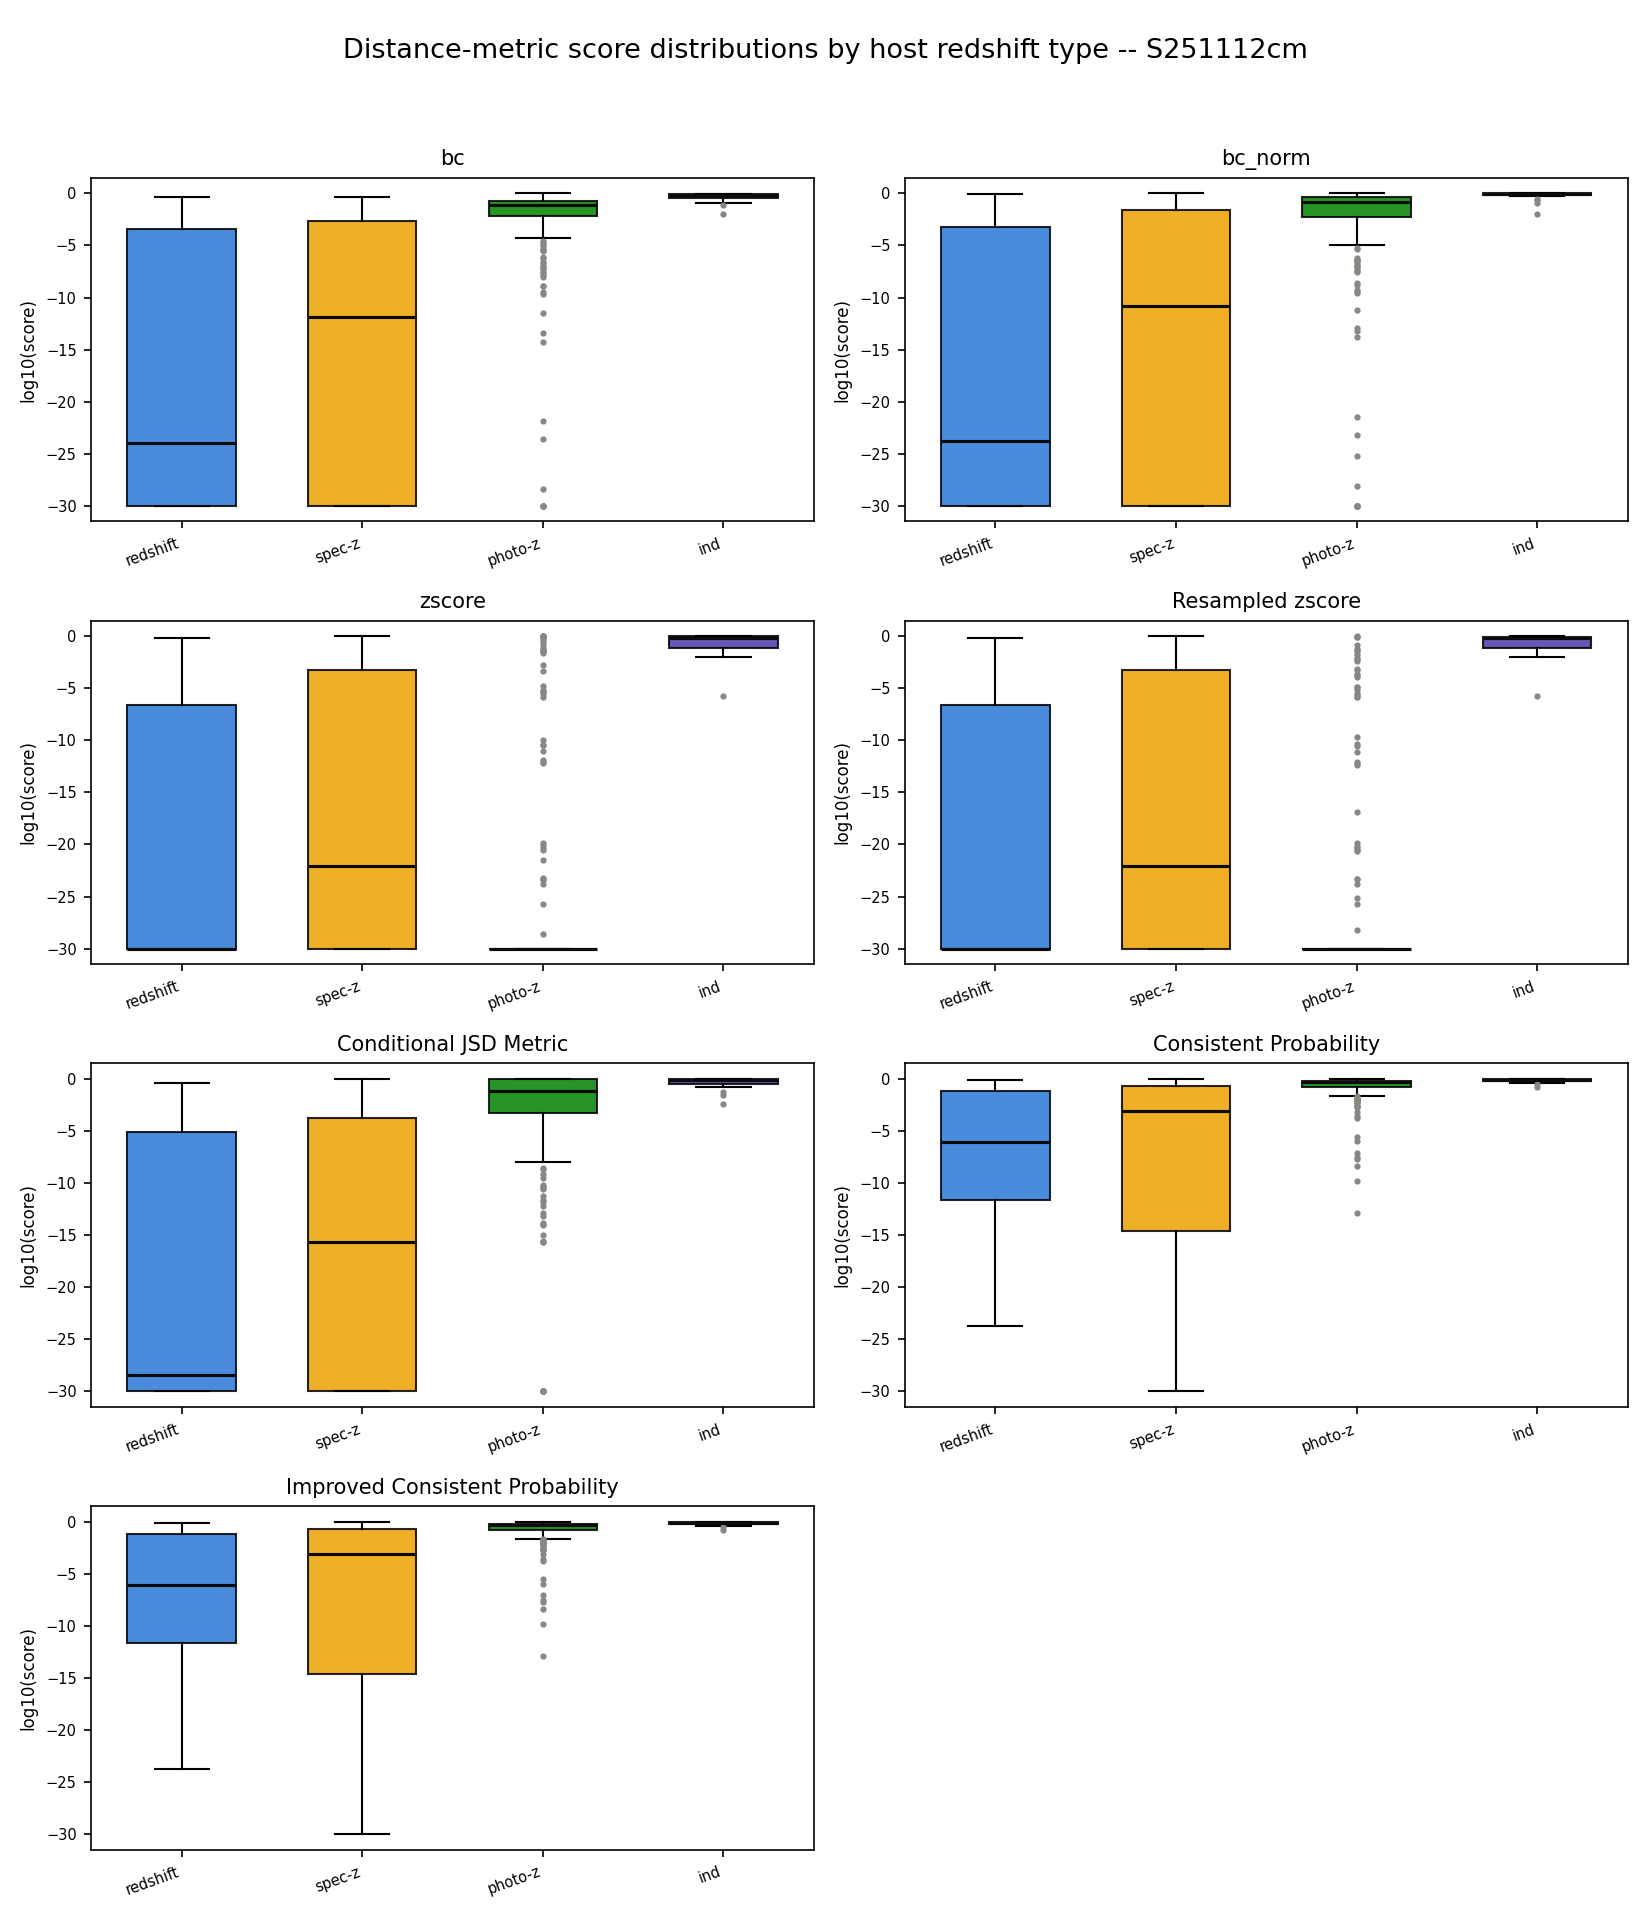
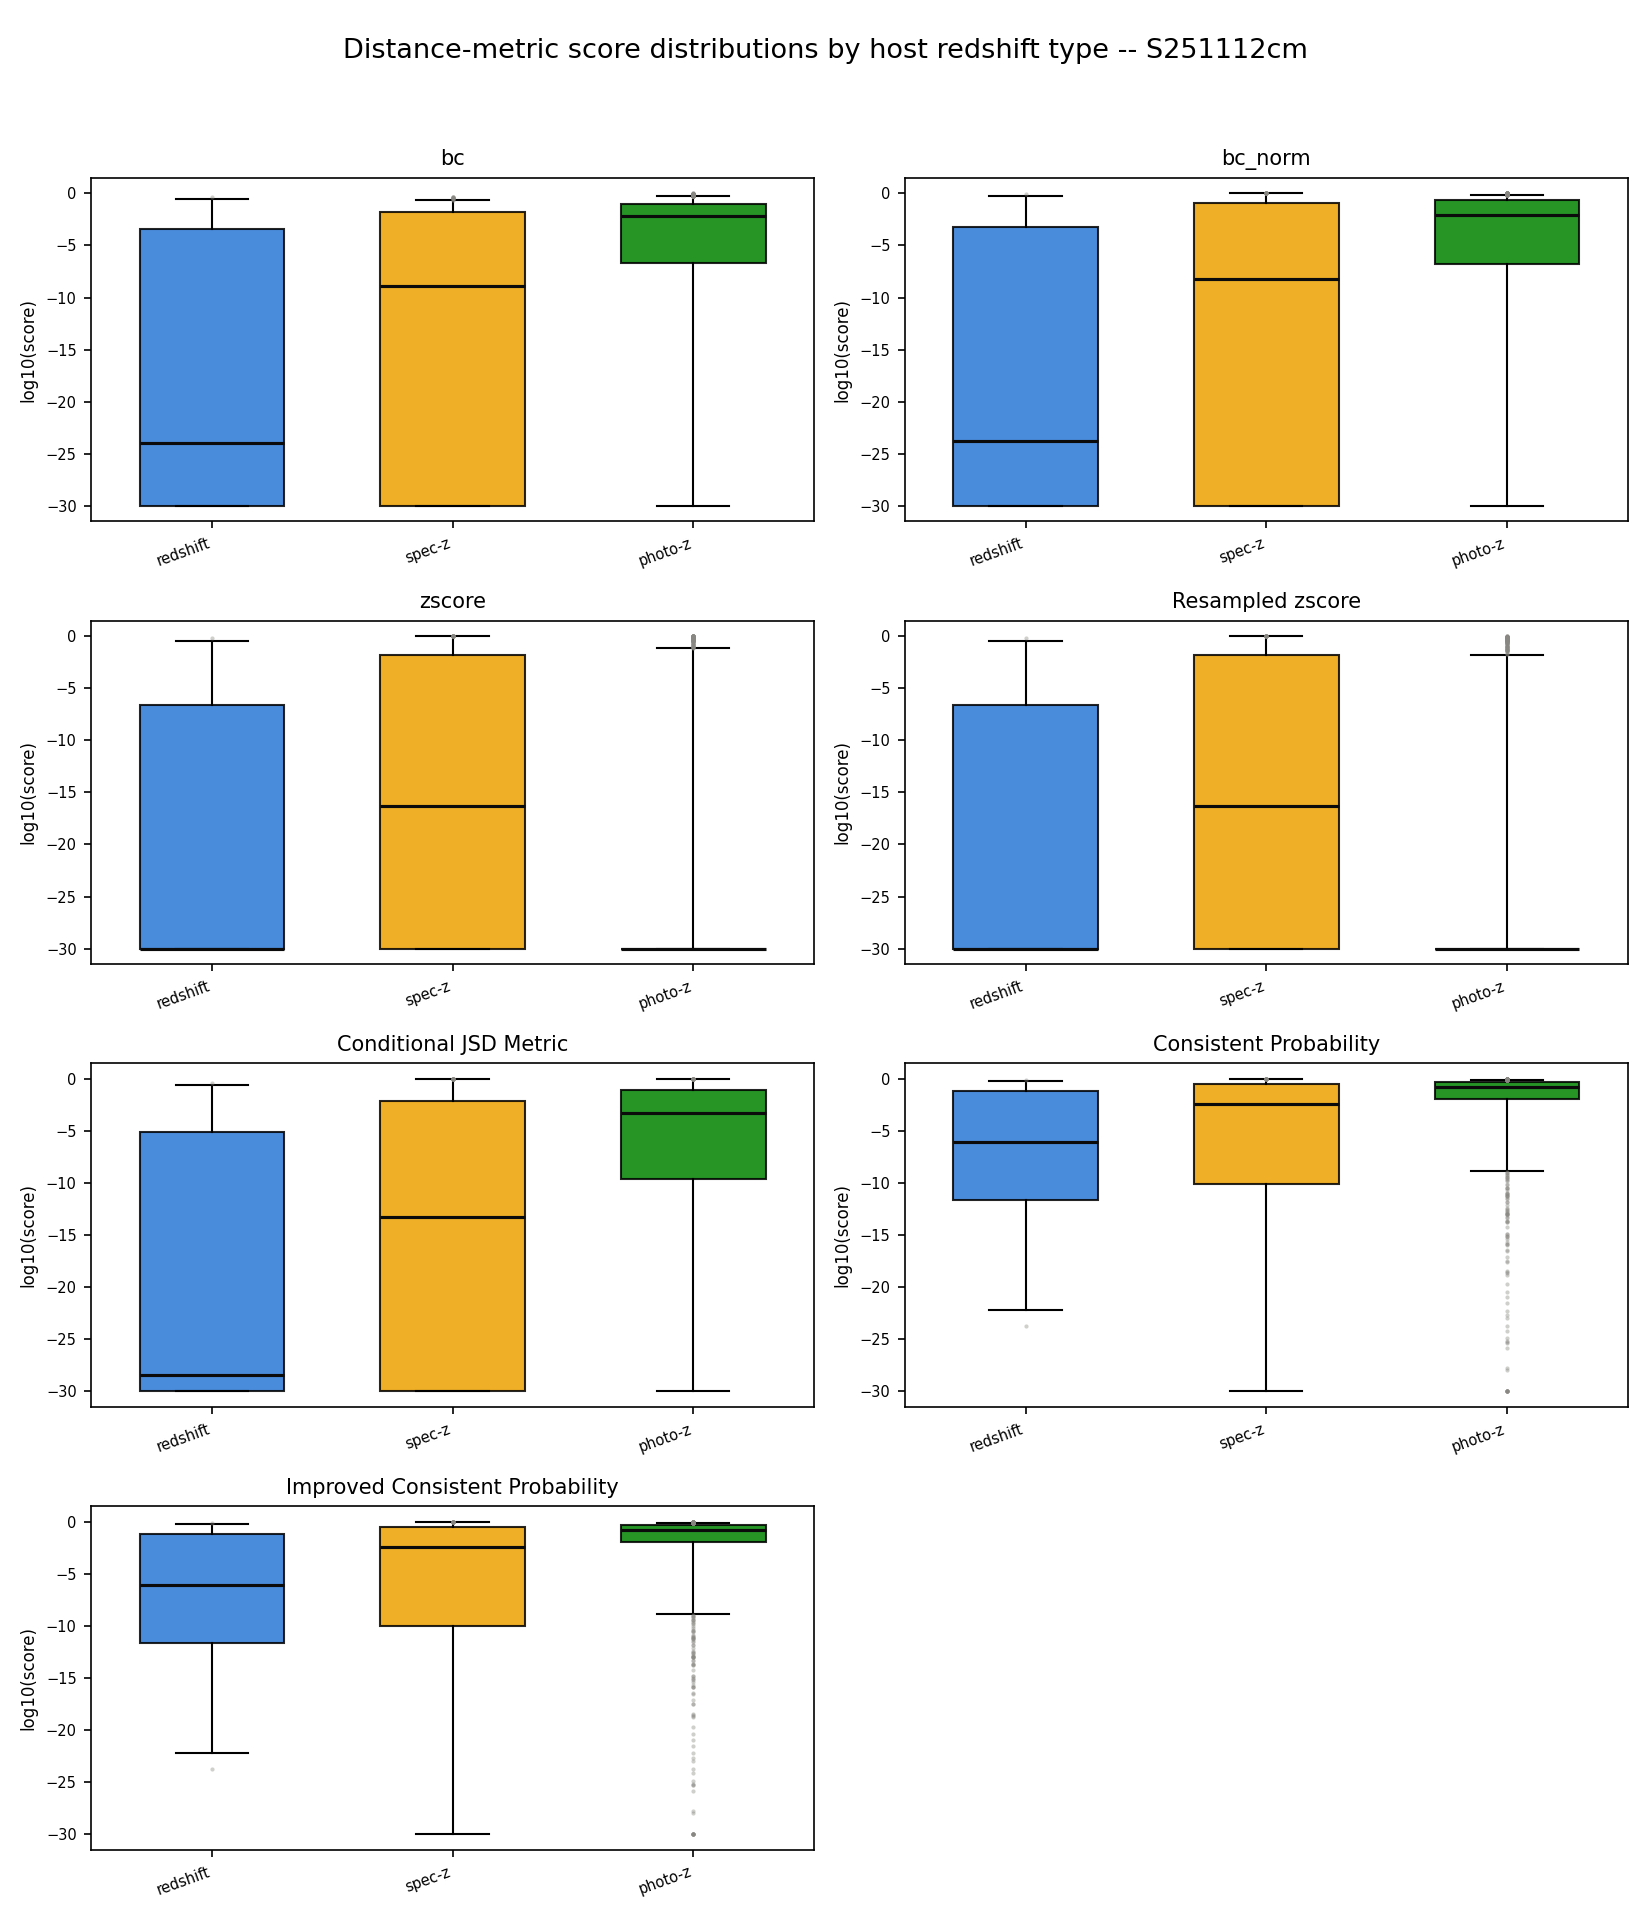
Distance Scoring Methods Plotting

diff --git a/scoring/management/commands/check_distance_scores.py b/scoring/management/commands/check_distance_scores.py
@@ -21,6 +21,7 @@ python manage.py check_distance_scores --event S251112cm --limit 15
 python manage.py check_distance_scores --event S251112cm --target-name AT2025addb
 """
 
+import json
 import warnings
 from collections import defaultdict
 from concurrent.futures import ThreadPoolExecutor, as_completed
@@ -28,6 +29,7 @@ from concurrent.futures import ThreadPoolExecutor, as_completed
 import numpy as np
 import pandas as pd
 import matplotlib.pyplot as plt
+from astropy import units as u
 
 from django.core.management.base import BaseCommand, CommandError
 from django.db import connections
@@ -37,7 +39,7 @@ from tom_nonlocalizedevents.models import EventCandidate, NonLocalizedEvent
 
 from candidate_vetting.vet import host_association
 
-from scoring.scoring import get_distance_score_diagnostic, host_distance_match, get_distance_score
+from scoring.scoring import cosmo, get_distance_score_diagnostic, host_distance_match, get_distance_score
 
 
 def _clean_host_df(host_df):
@@ -72,7 +74,8 @@ METRIC_ORDER = [
 ]
 
 
-def _plot_metric_boxplots(plotting_data, output_path, event, log_floor=1e-30):
+def _plot_metric_boxplots(plotting_data, output_path, event, log_floor=1e-30, exclude_categories=None):
+    exclude_categories = exclude_categories or set()
     metrics_present = [m for m in METRIC_ORDER if m in plotting_data]
 
     n_cols = 2
@@ -82,17 +85,35 @@ def _plot_metric_boxplots(plotting_data, output_path, event, log_floor=1e-30):
     for i, metric in enumerate(metrics_present):
         ax = axes[i // n_cols][i % n_cols]
         by_category = plotting_data[metric]
-        cats_present = [c for c in CATEGORY_COLORS if by_category.get(c)]
+        cats_present = [
+            c for c in CATEGORY_COLORS if c not in exclude_categories and by_category.get(c)
+        ]
 
         if not cats_present:
             ax.axis("off")
             continue
 
-        data = [np.log10(np.clip(by_category[c], log_floor, 1.0)) for c in cats_present]
+        # drop NaNs per category -- a handful of hosts (mostly photo-z, up to
+        # ~5% for bc_norm) produce NaN scores (missing catalog z-uncertainty
+        # propagating through the metric calculation), and matplotlib's
+        # boxplot silently produces an empty/invisible box for the whole
+        # category if even one NaN is present in its data
+        data = [
+            np.log10(np.clip(np.asarray(by_category[c], dtype=float), log_floor, 1.0))
+            for c in cats_present
+        ]
+        data = [d[~np.isnan(d)] for d in data]
+
         bp = ax.boxplot(
             data, patch_artist=True, widths=0.6,
+            # 5th-95th percentile whiskers instead of the default 1.5*IQR rule:
+            # these scores are heavily right-skewed (a dense cluster near 0
+            # plus a long tail down to the floor), so Tukey's rule flags huge
+            # numbers of points as "outliers" and the plot turns into a wall
+            # of dots.
+            whis=(5, 95),
             medianprops=dict(color="#0b0b0b", linewidth=1.5),
-            flierprops=dict(marker="o", markersize=3, markerfacecolor="#898781", markeredgecolor="none"),
+            flierprops=dict(marker="o", markersize=2, markerfacecolor="#898781", markeredgecolor="none", alpha=0.4),
         )
         for patch, cat in zip(bp["boxes"], cats_present):
             patch.set_facecolor(CATEGORY_COLORS[cat])
@@ -114,14 +135,94 @@ def _plot_metric_boxplots(plotting_data, output_path, event, log_floor=1e-30):
     return output_path
 
 
-def check_target_distance_score(target_id: int, nonlocalized_event_name: str):
+def _plot_score_vs_uncertainty(records, output_path, event, log_floor=1e-30):
+    """
+    Score vs. distance uncertainty, one panel per metric, colored by z-type.
+
+    Tests the bias hypothesis directly: if wider (less certain) distance
+    estimates get systematically higher overlap scores regardless of z-type,
+    points should trend upward with uncertainty within every color, not just
+    cluster by category on the x-axis like the boxplots do.
+    """
+    metrics_present = [m for m in METRIC_ORDER if any(m in r for r in records)]
+
+    n_cols = 2
+    n_rows = -(-len(metrics_present) // n_cols)  # ceil division
+    fig, axes = plt.subplots(n_rows, n_cols, figsize=(11, 3.4 * n_rows), squeeze=False)
+
+    for i, metric in enumerate(metrics_present):
+        ax = axes[i // n_cols][i % n_cols]
+        for cat, color in CATEGORY_COLORS.items():
+            xs = [r["uncertainty"] for r in records if r["z_type"] == cat and metric in r]
+            if not xs:
+                continue
+            ys = np.log10(np.clip([r[metric] for r in records if r["z_type"] == cat and metric in r], log_floor, 1.0))
+            ax.scatter(xs, ys, s=8, alpha=0.35, color=color, edgecolor="none")
+
+        ax.set_xscale("log")
+        ax.set_title(metric, fontsize=10)
+        ax.set_xlabel("distance uncertainty (Mpc)", fontsize=8)
+        ax.set_ylabel("log10(score)", fontsize=8)
+        ax.tick_params(labelsize=7)
+
+    for j in range(len(metrics_present), n_rows * n_cols):
+        axes[j // n_cols][j % n_cols].axis("off")
+
+    handles = [
+        plt.Line2D([0], [0], marker="o", color="none", markerfacecolor=color, markersize=6)
+        for color in CATEGORY_COLORS.values()
+    ]
+    fig.legend(
+        handles, CATEGORY_COLORS.keys(), loc="lower center",
+        ncol=len(CATEGORY_COLORS), frameon=False,
+    )
+
+    fig.suptitle(f"Distance-metric score vs. host distance uncertainty -- {event}", fontsize=13)
+    fig.tight_layout(rect=[0, 0.05, 1, 0.96])
+    fig.savefig(output_path, dpi=150)
+    plt.close(fig)
+    return output_path
+
+
+def _bucket_z_type(raw_z_type):
+    """
+    Mirror the z-type priority buckets get_distance_score_diagnostic uses, so
+    records line up with the same fixed category/color mapping everywhere.
+    """
+    if raw_z_type == "user spec-z":
+        return "user-redshift"
+    if raw_z_type == "z ind.":
+        return "ind"
+    if "spec-z" in raw_z_type:
+        return "spec-z"
+    if raw_z_type == "photo-z":
+        return "photo-z"
+    return None
+
+
+def _collect_host_records(target_id: int, nonlocalized_event_name: str):
+    """
+    Returns one record per evaluated host (or a single record for the target's
+    own redshift, if known), each holding every metric's score plus the
+    distance uncertainty and z-type bucket that produced it.
+
+    This uses every evaluated host, not just the best-scoring one per metric
+    (which is all get_distance_score_diagnostic returns) -- that's needed to
+    plot score vs. uncertainty at all, and it also gives the boxplots a much
+    larger, more representative sample per category instead of one point per
+    target.
+    """
     target = Target.objects.get(id=target_id)
 
     if target.redshift is not None and not np.isnan(target.redshift):
-        ret_scores = get_distance_score_diagnostic(
+        targ_dist_err = cosmo.luminosity_distance(1e-3).to(u.Mpc).value
+        diag_scores = get_distance_score_diagnostic(
             pd.DataFrame(), target_id, nonlocalized_event_name
         )
-        return ret_scores
+        record = {metric: val[0] for metric, val in diag_scores.items()}
+        record["uncertainty"] = targ_dist_err
+        record["z_type"] = "redshift"
+        return [record]
 
     with warnings.catch_warnings():
         warnings.simplefilter("ignore")
@@ -130,11 +231,22 @@ def check_target_distance_score(target_id: int, nonlocalized_event_name: str):
 
     if not len(host_df):
         # nothing to compare against -- no bias data point, not a fake category
-        return {}
+        return []
 
     host_df = host_distance_match(host_df, target_id, nonlocalized_event_name)
-    ret_scores = get_distance_score_diagnostic(host_df, target_id, nonlocalized_event_name)
-    return ret_scores
+
+    records = []
+    for _, row in host_df.iterrows():
+        z_type = _bucket_z_type(row.z_type)
+        if z_type is None:
+            continue
+        record = {metric: row[metric] for metric in METRIC_ORDER if metric in row}
+        if not record:
+            continue
+        record["uncertainty"] = (row.lumdist_neg_err + row.lumdist_pos_err) / 2
+        record["z_type"] = z_type
+        records.append(record)
+    return records
 
 
 def _score_one_candidate(ec, event):
@@ -145,8 +257,8 @@ def _score_one_candidate(ec, event):
     burning wall-clock time on I/O one candidate at a time.
     """
     try:
-        diag_scores = check_target_distance_score(ec.target_id, event)
-        return ec.target.name, diag_scores, None
+        records = _collect_host_records(ec.target_id, event)
+        return ec.target.name, records, None
     except Exception as e:
         return ec.target.name, None, str(e)
     finally:
@@ -191,39 +303,70 @@ class Command(BaseCommand):
             type=int,
             default=8,
         )
+        parser.add_argument(
+            "--from-cache",
+            help="Path to a previously-saved *_records.json file -- skips "
+            "re-querying the DB/catalogs and just replots the cached records",
+            type=str,
+            default=None,
+        )
 
-    def handle(self, event, limit=None, target_name=None, output="distance_metric_bias", workers=8, **kwargs):
-        try:
-            nle = NonLocalizedEvent.objects.get(event_id=event)
-        except NonLocalizedEvent.DoesNotExist:
-            raise CommandError(f"No NonLocalizedEvent found with event_id={event!r}")
+    def handle(
+        self, event, limit=None, target_name=None, output="distance_metric_bias",
+        workers=8, from_cache=None, **kwargs,
+    ):
+        if from_cache:
+            with open(from_cache) as f:
+                all_records = json.load(f)
+            print(f"Loaded {len(all_records)} host records from {from_cache}")
+        else:
+            try:
+                nle = NonLocalizedEvent.objects.get(event_id=event)
+            except NonLocalizedEvent.DoesNotExist:
+                raise CommandError(f"No NonLocalizedEvent found with event_id={event!r}")
 
-        candidates = EventCandidate.objects.filter(nonlocalizedevent_id=nle.id)
-        if target_name:
-            candidates = candidates.filter(target__name=target_name)
-            if not candidates.exists():
-                raise CommandError(f"No candidate named {target_name!r} found for {event}")
-        elif limit:
-            candidates = candidates[:limit]
+            candidates = EventCandidate.objects.filter(nonlocalizedevent_id=nle.id)
+            if target_name:
+                candidates = candidates.filter(target__name=target_name)
+                if not candidates.exists():
+                    raise CommandError(f"No candidate named {target_name!r} found for {event}")
+            elif limit:
+                candidates = candidates[:limit]
 
-        candidates = list(candidates)
-        total = len(candidates)
+            candidates = list(candidates)
+            total = len(candidates)
+
+            all_records = []
+            with ThreadPoolExecutor(max_workers=workers) as executor:
+                futures = [executor.submit(_score_one_candidate, ec, event) for ec in candidates]
+                for i, future in enumerate(as_completed(futures), start=1):
+                    name, records, error = future.result()
+                    if error:
+                        print(f"[{i}/{total}] {name}: FAILED - {error}")
+                        continue
+                    all_records.extend(records)
+                    print(f"[{i}/{total}] {name}: done ({len(records)} host record(s))")
+
+            if not all_records:
+                print("No plotting data collected.")
+                return
+
+            cache_path = f"{output}_records.json"
+            with open(cache_path, "w") as f:
+                json.dump(all_records, f)
+            print(f"Cached {len(all_records)} host records to {cache_path}")
 
         plotting_data = defaultdict(lambda: defaultdict(list))
-        with ThreadPoolExecutor(max_workers=workers) as executor:
-            futures = [executor.submit(_score_one_candidate, ec, event) for ec in candidates]
-            for i, future in enumerate(as_completed(futures), start=1):
-                name, diag_scores, error = future.result()
-                if error:
-                    print(f"[{i}/{total}] {name}: FAILED - {error}")
-                    continue
-                for key, val in diag_scores.items():
-                    if len(val) == 3 and val[2]:
-                        plotting_data[key][val[2]].append(val[0])
-                print(f"[{i}/{total}] {name}: done")
+        for rec in all_records:
+            for metric in METRIC_ORDER:
+                if metric in rec:
+                    plotting_data[metric][rec["z_type"]].append(rec[metric])
 
-        if plotting_data:
-            boxplot_path = _plot_metric_boxplots(plotting_data, f"{output}_boxplots.png", event)
-            print(f"Saved boxplots to {boxplot_path}")
-        else:
-            print("No plotting data collected.")
+        boxplot_path = _plot_metric_boxplots(
+            plotting_data, f"{output}_boxplots.png", event, exclude_categories={"ind"}
+        )
+        scatter_path = _plot_score_vs_uncertainty(
+            all_records, f"{output}_score_vs_uncertainty.png", event
+        )
+        print(f"Saved boxplots to {boxplot_path}")
+        print(f"Saved score-vs-uncertainty plot to {scatter_path}")